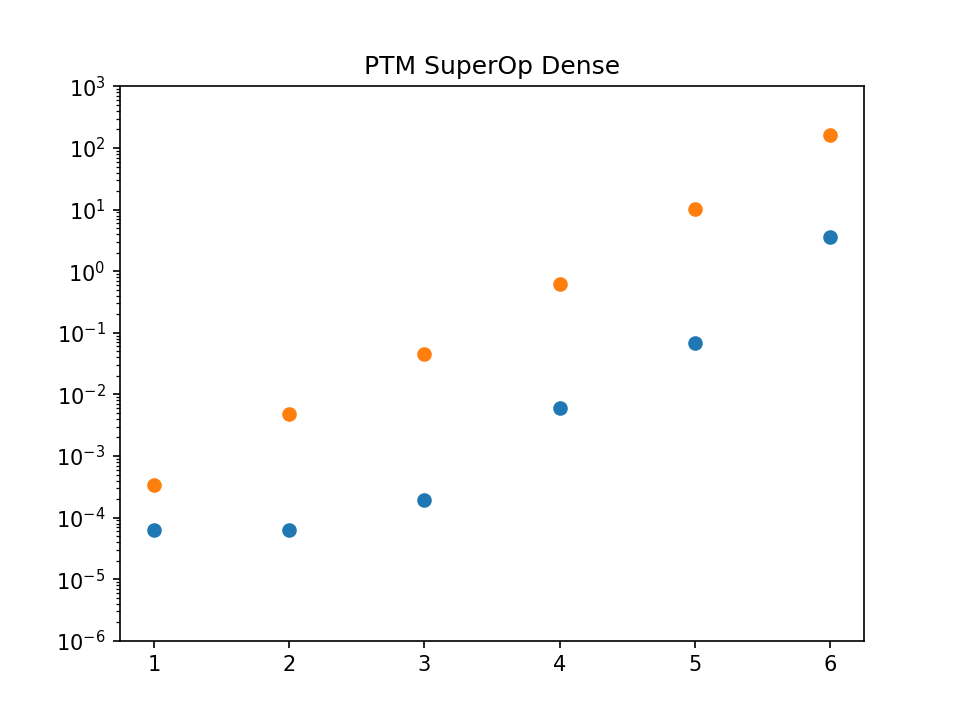
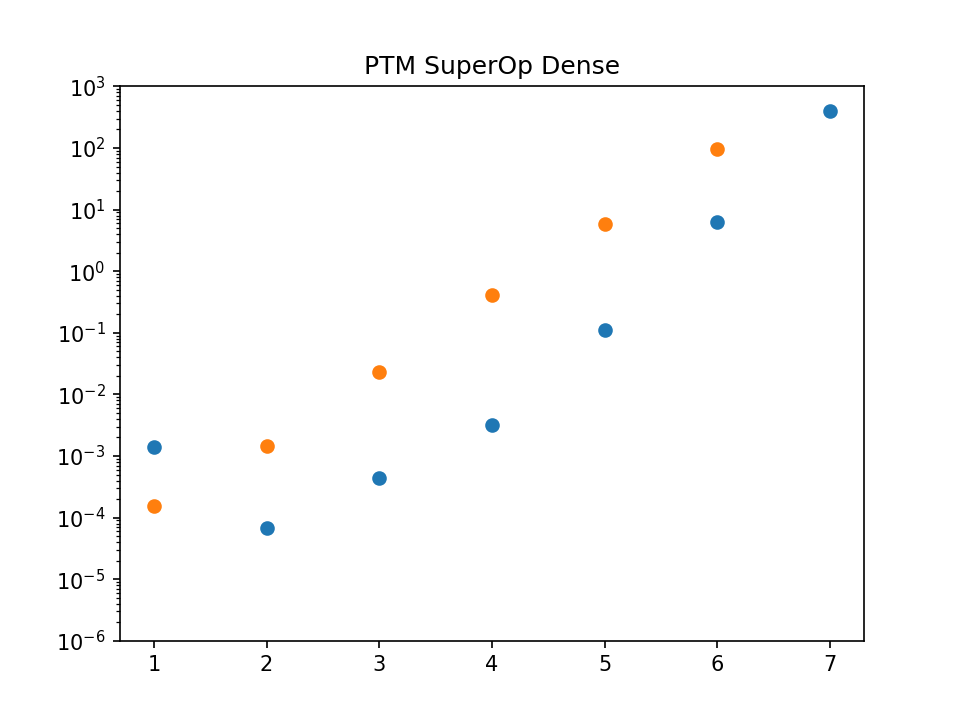
[TPD] Modified output in IterTPD, Tested

diff --git a/IterTPD.py b/IterTPD.py
@@ -1,0 +1,96 @@
+import numpy as np
+import math
+
+import TestMatrices as TM
+
+import sys
+
+np.set_printoptions(suppress=True, linewidth=sys.maxsize, threshold=sys.maxsize)
+
+def tpd(vector: np.ndarray, num_of_qubits: int):
+    if num_of_qubits == 0:
+        return np.array(vector[0])
+    else:
+        matrix_dim: int = 1 << num_of_qubits
+        vector_dim: int = 1 << (2*num_of_qubits)
+        matrix: np.ndarray = vector.reshape(matrix_dim, matrix_dim)
+        pauli_weights: np.ndarray = np.zeros(vector_dim, dtype=np.complex64)
+        recursive_tpd(matrix, num_of_qubits, pauli_weights)
+        return pauli_weights
+
+def recursive_tpd(matrix: np.ndarray, num_of_qubits: int, pauli_weights: np.ndarray, index_outer: int = 0):
+    num_of_qubits -= 1
+    halved_dim: int = 1 << num_of_qubits
+    top_left: np.ndarray = matrix[0:halved_dim, 0:halved_dim]
+    top_right: np.ndarray = matrix[0:halved_dim, halved_dim:]
+    bottom_left: np.ndarray = matrix[halved_dim:, 0:halved_dim]
+    bottom_right: np.ndarray = matrix[halved_dim:, halved_dim:]
+    cmw_1: np.ndarray = 0.5 * (top_left + bottom_right)
+    cmw_x: np.ndarray = 0.5 * (bottom_left + top_right)
+    cmw_y: np.ndarray = -0.5j * (bottom_left - top_right)
+    cmw_z: np.ndarray = 0.5 * (top_left - bottom_right)
+    cmws: list[np.ndarray] = [cmw_1, cmw_x, cmw_y, cmw_z]
+    
+    if num_of_qubits == 0:
+        index: int = 0
+        for cmw in cmws:
+            if cmw.any():
+                pauli_weights[index_outer+index] = cmw[0][0]
+            index += 1
+    else:
+        index: int = 0
+        for cmw in cmws:
+            if cmw.any():
+                recursive_tpd(cmw, num_of_qubits,pauli_weights,index_outer+index)
+            index += halved_dim ** 2
+
+    return
+
+def itpd(vector: np.ndarray, num_of_qubits: int):
+    debug = True
+    if num_of_qubits == 0:
+        return np.array(vector[0])
+    else:
+        matrix_dim: int = 1 << num_of_qubits
+        vector_dim: int = 1 << (2*num_of_qubits)
+        matrix: np.ndarray = vector.reshape(matrix_dim, matrix_dim)
+        can_weights: np.ndarray = np.zeros(vector_dim, dtype=np.complex64)
+        recursive_itpd(matrix, num_of_qubits, can_weights)
+        return can_weights
+
+
+def recursive_itpd(matrix: np.ndarray, num_of_qubits: int, can_weights: np.ndarray, index_outer: int = 0):
+    debug = True
+    num_of_qubits -= 1
+    halved_dim: int = 1 << num_of_qubits
+    top_left: np.ndarray = matrix[0:halved_dim, 0:halved_dim]
+    top_right: np.ndarray = matrix[0:halved_dim, halved_dim:]
+    bottom_left: np.ndarray = matrix[halved_dim:, 0:halved_dim]
+    bottom_right: np.ndarray = matrix[halved_dim:, halved_dim:]
+    cmw_1: np.ndarray = top_left + bottom_right
+    cmw_2: np.ndarray = bottom_left + top_right
+    cmw_3: np.ndarray = 1.0j * (bottom_left - top_right)
+    cmw_4: np.ndarray = top_left - bottom_right
+    cmws: list[np.ndarray] = [cmw_1, cmw_2, cmw_3, cmw_4]
+    
+    if num_of_qubits == 0:
+        index: int = 0
+        for cmw in cmws:
+            if cmw.any():
+                can_weights[index_outer+index] = cmw[0][0]
+            index += 1
+    else:
+        index: int = 0
+        for cmw in cmws:
+            if cmw.any():
+                recursive_itpd(cmw, num_of_qubits,can_weights,index_outer+index)
+            index += halved_dim ** 2
+
+    return
+
+if __name__ == "__main__":
+    qDim = 1
+    mat = TM.diagRandom(2 ** qDim)
+    print(mat, mat.shape)
+    res = itpd(mat, qDim)
+    print(res)

diff --git a/Benchmarking.py b/Benchmarking.py
@@ -41,7 +41,7 @@ maxQdims = {"Commutator": 7,
 			"Slicing": 14,
 			"Chi": 7,
 			"SuperOp_old": 7,
-			"SuperOp": 8,
+            "SuperOp": 8,
 			"Choi": 6}
 
 
@@ -86,7 +86,7 @@ def benchmarkPlot(matrixType, mapType, maxQdim, SOp=False):
 
 
 if __name__ == "__main__":
-	matrixTypes = ["Diag", "Dense"]
+	matrixTypes = ["Dense"]
 	mapTypes = []
 	#	 ["Commutator","Anticommutator","Multiplication","Conjugation","Slicing"]
 	SOpmapTypes = ["SuperOp"]  # SuperOp_old, "Chi"

diff --git a/SuperOp.py b/SuperOp.py
@@ -7,7 +7,8 @@ import TestMatrices as TM
 
 from PTM_utils import matrix_slice, matrix_embedding
 
-from TPD import tpd, itpd, TPD, iTPD
+# from TPD import tpd, itpd, TPD, iTPD
+from IterTPD import tpd, itpd
 
 from qiskit.quantum_info.operators.channel import SuperOp, PTM
 
